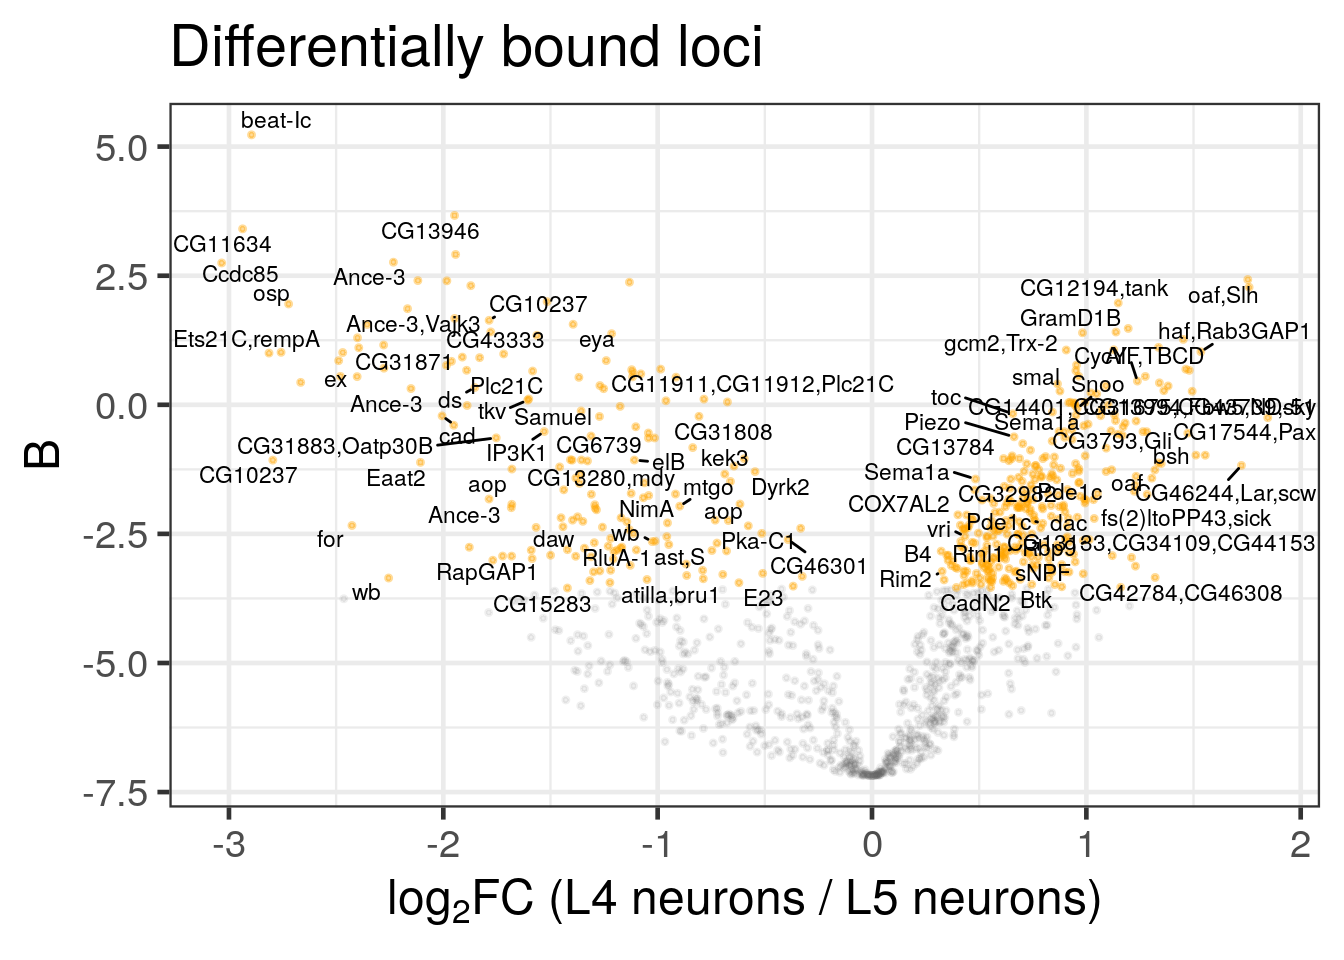
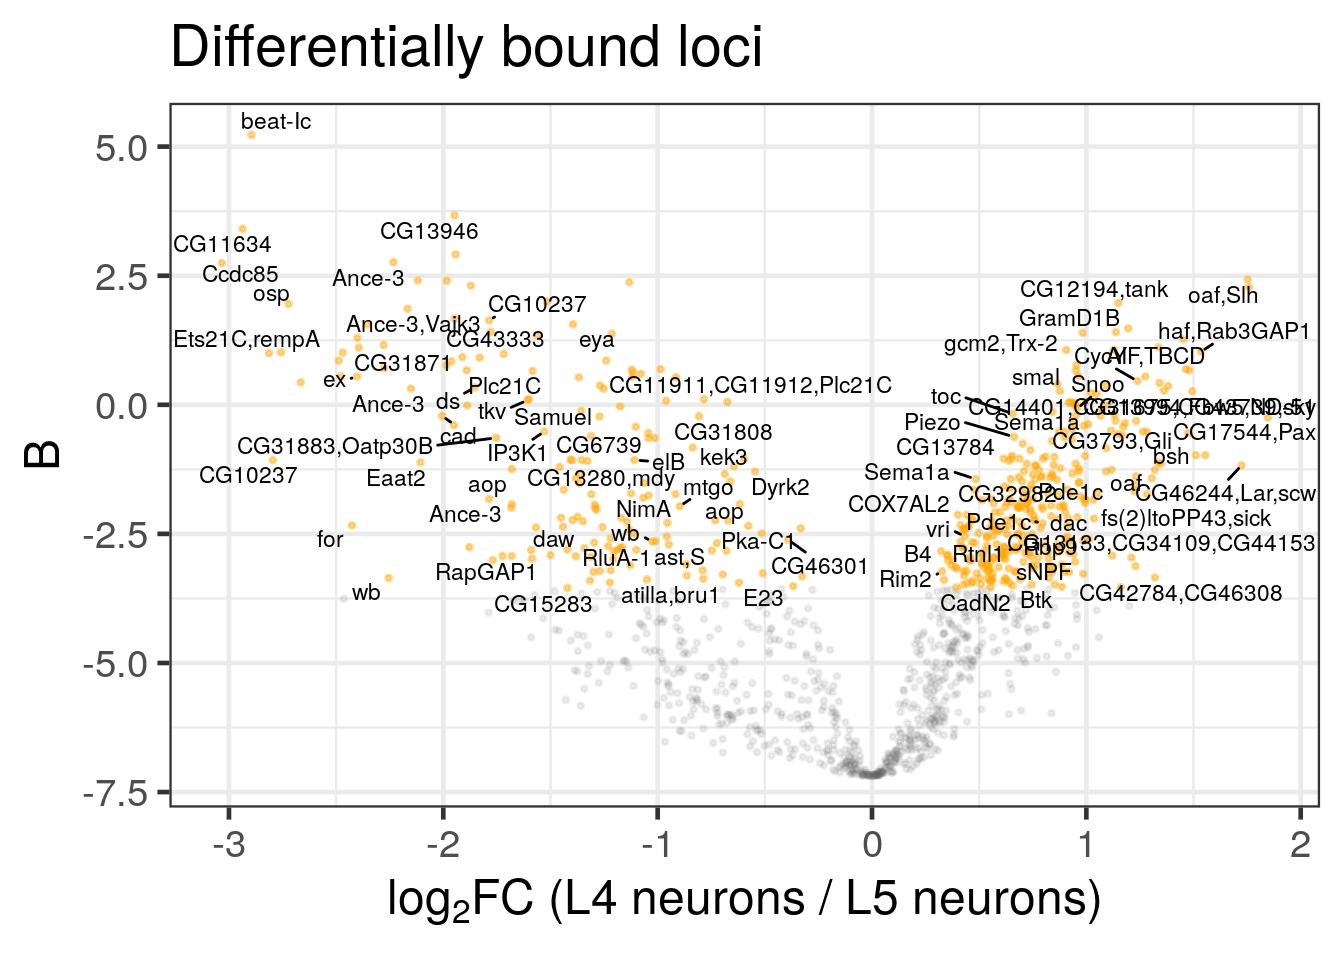
Built site for damidBind@0.99.14:

diff --git a/reference/browse_igv_regions.html b/reference/browse_igv_regions.html
@@ -13,7 +13,7 @@ A dedicated "Save as SVG" button is provided to export the current IGV view.'></
 
     <a class="navbar-brand me-2" href="../index.html">damidBind</a>
 
-    <small class="nav-text text-muted me-auto" data-bs-toggle="tooltip" data-bs-placement="bottom" title="">0.99.12</small>
+    <small class="nav-text text-muted me-auto" data-bs-toggle="tooltip" data-bs-placement="bottom" title="">0.99.14</small>
 
 
     <button class="navbar-toggler" type="button" data-bs-toggle="collapse" data-bs-target="#navbar" aria-controls="navbar" aria-expanded="false" aria-label="Toggle navigation">
@@ -56,6 +56,8 @@ A dedicated "Save as SVG" button is provided to export the current IGV view.</p>
 <span>  <span class="va">diff_results</span>,</span>
 <span>  samples <span class="op">=</span> <span class="cn">NULL</span>,</span>
 <span>  use_unique_ids <span class="op">=</span> <span class="cn">TRUE</span>,</span>
+<span>  average_tracks <span class="op">=</span> <span class="cn">FALSE</span>,</span>
+<span>  export_data_archive <span class="op">=</span> <span class="cn">NULL</span>,</span>
 <span>  colour_cond1 <span class="op">=</span> <span class="st">"#ff6600"</span>,</span>
 <span>  colour_cond2 <span class="op">=</span> <span class="st">"#2288dd"</span>,</span>
 <span>  use_genome <span class="op">=</span> <span class="cn">NULL</span>,</span>
@@ -84,6 +86,17 @@ A dedicated "Save as SVG" button is provided to export the current IGV view.</p>
 <dt id="arg-use-unique-ids">use_unique_ids<a class="anchor" aria-label="anchor" href="#arg-use-unique-ids"></a></dt>
 <dd><p>Logical.  When `TRUE` (default), simplified unique sample names will be
 displayed.  Set as `FALSE` to use the full sample file names from loading.</p></dd>
+
+
+<dt id="arg-average-tracks">average_tracks<a class="anchor" aria-label="anchor" href="#arg-average-tracks"></a></dt>
+<dd><p>Logical. If `TRUE`, displays the average signal for each
+condition instead of individual replicate tracks. (Default: `FALSE`)</p></dd>
+
+
+<dt id="arg-export-data-archive">export_data_archive<a class="anchor" aria-label="anchor" href="#arg-export-data-archive"></a></dt>
+<dd><p>Character or NULL. If a filename is provided (e.g. "my_data"),
+the function exports all IGV tracks as a zip archive ("my_data.zip") and exits
+without launching the browser. (Default: NULL)</p></dd>
 
 
 <dt id="arg-colour-cond-colour-cond-">colour_cond1, colour_cond2<a class="anchor" aria-label="anchor" href="#arg-colour-cond-colour-cond-"></a></dt>
@@ -120,7 +133,13 @@ displayed.  Set as `FALSE` to use the full sample file names from loading.</p></
 </dl></div>
     <div class="section level2">
     <h2 id="value">Value<a class="anchor" aria-label="anchor" href="#value"></a></h2>
-    <p>Invisibly returns the Shiny app object created by `shinyApp()`.</p>
+    <p>Invisibly returns the Shiny app object if launching the browser, or the path
+  to the zip archive if exporting data.</p>
+    </div>
+    <div class="section level2">
+    <h2 id="details">Details<a class="anchor" aria-label="anchor" href="#details"></a></h2>
+    <p>Alternatively, if `export_data_archive` is provided, the function will bypass the browser and
+save all tracks (including averaged tracks) as a zip archive of bedGraph and BED files.</p>
     </div>
 
     <div class="section level2">
@@ -157,6 +176,9 @@ displayed.  Set as `FALSE` to use the full sample file names from loading.</p></
 <span class="r-in"><span></span></span>
 <span class="r-in"><span><span class="co"># Launch the interactive browser</span></span></span>
 <span class="r-in"><span><span class="fu">browse_igv_regions</span><span class="op">(</span><span class="va">diff_results</span><span class="op">)</span></span></span>
+<span class="r-in"><span></span></span>
+<span class="r-in"><span><span class="co"># Export data instead of launching browser</span></span></span>
+<span class="r-in"><span><span class="fu">browse_igv_regions</span><span class="op">(</span><span class="va">diff_results</span>, export_data_archive <span class="op">=</span> <span class="st">"L4_vs_L5_tracks"</span><span class="op">)</span></span></span>
 <span class="r-in"><span><span class="op">}</span></span></span>
 <span class="r-in"><span><span class="op">}</span> <span class="co"># }</span></span></span>
 <span class="r-in"><span></span></span>

diff --git a/articles/damidBind_vignette.html b/articles/damidBind_vignette.html
@@ -22,7 +22,7 @@
 
     <a class="navbar-brand me-2" href="../index.html">damidBind</a>
 
-    <small class="nav-text text-muted me-auto" data-bs-toggle="tooltip" data-bs-placement="bottom" title="">0.99.12</small>
+    <small class="nav-text text-muted me-auto" data-bs-toggle="tooltip" data-bs-placement="bottom" title="">0.99.14</small>
 
 
     <button class="navbar-toggler" type="button" data-bs-toggle="collapse" data-bs-target="#navbar" aria-controls="navbar" aria-expanded="false" aria-label="Toggle navigation">
@@ -573,6 +573,9 @@ Figure 6.7: The interactive IGV browser window. The interface allows for rapid e
 </p>
 </div>
 <p>The table on the left side of the window can be sorted by clicking on the column headers, and clicking on any entry will move the IGV browser window to that locus (+/- a sensible buffer region). All sample reps are shown, together with the unified binding peaks and a simple pair of tracks that show the loci that are enriched in both conditions.</p>
+<p>The default display will show the individual replicate tracks. In order to show the averaged binding per condition instead, set <code>average_tracks = TRUE</code>.</p>
+<p>While this web app will save high quality SVGs, if you wish to generate your own genome browser figures with another utility, calling <code><a href="../reference/browse_igv_regions.html">browse_igv_regions()</a></code> with <code>export_data_archive = "a/valid/filepath.zip"</code> will export all of the final processed data tracks (including unified peaks and enrichment tracks) as a zip file. These can be loaded into any third party software, such as <code>pyGenomeTracks</code>.</p>
+<p>The <code>export_data_archive</code> parameter can be combined with <code>average_tracks = TRUE</code> to export averaged genome-wide binding tracks.</p>
 </div>
 <div class="section level4" number="6.4.4">
 <h4 id="gene-ontology-go-enrichment-plots">
@@ -680,7 +683,7 @@ Xu C, Ramos TB, Marshall OJ &amp; Doe CQ (2024) <a href="https://doi.org/10.7554
 <span><span class="co">##  [1] ensembldb_2.30.0        AnnotationFilter_1.30.0 GenomicFeatures_1.58.0 </span></span>
 <span><span class="co">##  [4] AnnotationDbi_1.68.0    Biobase_2.66.0          GenomicRanges_1.58.0   </span></span>
 <span><span class="co">##  [7] GenomeInfoDb_1.42.3     IRanges_2.40.1          S4Vectors_0.44.0       </span></span>
-<span><span class="co">## [10] BiocGenerics_0.52.0     damidBind_0.99.12       BiocStyle_2.34.0       </span></span>
+<span><span class="co">## [10] BiocGenerics_0.52.0     damidBind_0.99.14       BiocStyle_2.34.0       </span></span>
 <span><span class="co">## </span></span>
 <span><span class="co">## loaded via a namespace (and not attached):</span></span>
 <span><span class="co">##   [1] splines_4.4.0               later_1.4.4                </span></span>

diff --git a/news/index.html b/news/index.html
@@ -7,7 +7,7 @@
 
     <a class="navbar-brand me-2" href="../index.html">damidBind</a>
 
-    <small class="nav-text text-muted me-auto" data-bs-toggle="tooltip" data-bs-placement="bottom" title="">0.99.12</small>
+    <small class="nav-text text-muted me-auto" data-bs-toggle="tooltip" data-bs-placement="bottom" title="">0.99.14</small>
 
 
     <button class="navbar-toggler" type="button" data-bs-toggle="collapse" data-bs-target="#navbar" aria-controls="navbar" aria-expanded="false" aria-label="Toggle navigation">
@@ -36,6 +36,11 @@
       <small>Source: <a href="https://github.com/marshall-lab/damidBind/blob/HEAD/NEWS.md" class="external-link"><code>NEWS.md</code></a></small>
     </div>
 
+    <div class="section level2">
+<h2 class="pkg-version" data-toc-text="0.99.14" id="damidbind-09914">damidBind 0.99.14<a class="anchor" aria-label="anchor" href="#damidbind-09914"></a></h2>
+<ul><li>NEW: Added <code>average_tracks</code> option to <code><a href="../reference/browse_igv_regions.html">browse_igv_regions()</a></code>. When <code>TRUE</code>, this feature displays averaged binding tracks per condition rather than replicates.</li>
+<li>NEW: Added <code>export_data_archive</code> option to <code><a href="../reference/browse_igv_regions.html">browse_igv_regions()</a></code>. When set to a valid file path, this parameter will export the tracks that would be displayed in the Shiny IGV window as bedGraph or BED files in a zip archive, instead of launching the Shiny app. These files can be used to render final publication figures via external utilities such as <code>pyGenomeTracks</code> if desired. This option can of course be combined with <code>average_tracks</code> above.</li>
+</ul></div>
     <div class="section level2">
 <h2 class="pkg-version" data-toc-text="0.99.12" id="damidbind-09912">damidBind 0.99.12<a class="anchor" aria-label="anchor" href="#damidbind-09912"></a></h2>
 <ul><li>CHANGED: major rewrite of the occupancy FDR logic for gene expression status. Briefly:

diff --git a/authors.html b/authors.html
@@ -7,7 +7,7 @@
 
     <a class="navbar-brand me-2" href="index.html">damidBind</a>
 
-    <small class="nav-text text-muted me-auto" data-bs-toggle="tooltip" data-bs-placement="bottom" title="">0.99.12</small>
+    <small class="nav-text text-muted me-auto" data-bs-toggle="tooltip" data-bs-placement="bottom" title="">0.99.14</small>
 
 
     <button class="navbar-toggler" type="button" data-bs-toggle="collapse" data-bs-target="#navbar" aria-controls="navbar" aria-expanded="false" aria-label="Toggle navigation">
@@ -50,13 +50,13 @@
 
       <p>Marshall O (2026).
 <em>damidBind: Differential Binding and Expression Analysis for DamID-seq Data</em>.
-R package version 0.99.12, <a href="https://marshall-lab.org/damidBind" class="external-link">https://marshall-lab.org/damidBind</a>.
+R package version 0.99.14, <a href="https://marshall-lab.org/damidBind" class="external-link">https://marshall-lab.org/damidBind</a>.
 </p>
       <pre>@Manual{,
   title = {damidBind: Differential Binding and Expression Analysis for DamID-seq Data},
   author = {Owen Marshall},
   year = {2026},
-  note = {R package version 0.99.12},
+  note = {R package version 0.99.14},
   url = {https://marshall-lab.org/damidBind},
 }</pre>
     </div>

diff --git a/404.html b/404.html
@@ -22,7 +22,7 @@
 
     <a class="navbar-brand me-2" href="https://marshall-lab/damidBind/index.html">damidBind</a>
 
-    <small class="nav-text text-muted me-auto" data-bs-toggle="tooltip" data-bs-placement="bottom" title="">0.99.12</small>
+    <small class="nav-text text-muted me-auto" data-bs-toggle="tooltip" data-bs-placement="bottom" title="">0.99.14</small>
 
 
     <button class="navbar-toggler" type="button" data-bs-toggle="collapse" data-bs-target="#navbar" aria-controls="navbar" aria-expanded="false" aria-label="Toggle navigation">

diff --git a/LICENSE-text.html b/LICENSE-text.html
@@ -7,7 +7,7 @@
 
     <a class="navbar-brand me-2" href="index.html">damidBind</a>
 
-    <small class="nav-text text-muted me-auto" data-bs-toggle="tooltip" data-bs-placement="bottom" title="">0.99.12</small>
+    <small class="nav-text text-muted me-auto" data-bs-toggle="tooltip" data-bs-placement="bottom" title="">0.99.14</small>
 
 
     <button class="navbar-toggler" type="button" data-bs-toggle="collapse" data-bs-target="#navbar" aria-controls="navbar" aria-expanded="false" aria-label="Toggle navigation">

diff --git a/articles/index.html b/articles/index.html
@@ -7,7 +7,7 @@
 
     <a class="navbar-brand me-2" href="../index.html">damidBind</a>
 
-    <small class="nav-text text-muted me-auto" data-bs-toggle="tooltip" data-bs-placement="bottom" title="">0.99.12</small>
+    <small class="nav-text text-muted me-auto" data-bs-toggle="tooltip" data-bs-placement="bottom" title="">0.99.14</small>
 
 
     <button class="navbar-toggler" type="button" data-bs-toggle="collapse" data-bs-target="#navbar" aria-controls="navbar" aria-expanded="false" aria-label="Toggle navigation">

diff --git a/index.html b/index.html
@@ -24,7 +24,7 @@
 
     <a class="navbar-brand me-2" href="index.html">damidBind</a>
 
-    <small class="nav-text text-muted me-auto" data-bs-toggle="tooltip" data-bs-placement="bottom" title="">0.99.12</small>
+    <small class="nav-text text-muted me-auto" data-bs-toggle="tooltip" data-bs-placement="bottom" title="">0.99.14</small>
 
 
     <button class="navbar-toggler" type="button" data-bs-toggle="collapse" data-bs-target="#navbar" aria-controls="navbar" aria-expanded="false" aria-label="Toggle navigation">

diff --git a/reference/DamIDResults-class.html b/reference/DamIDResults-class.html
@@ -13,7 +13,7 @@ and associated metadata."></head><body>
 
     <a class="navbar-brand me-2" href="../index.html">damidBind</a>
 
-    <small class="nav-text text-muted me-auto" data-bs-toggle="tooltip" data-bs-placement="bottom" title="">0.99.12</small>
+    <small class="nav-text text-muted me-auto" data-bs-toggle="tooltip" data-bs-placement="bottom" title="">0.99.14</small>
 
 
     <button class="navbar-toggler" type="button" data-bs-toggle="collapse" data-bs-target="#navbar" aria-controls="navbar" aria-expanded="false" aria-label="Toggle navigation">

diff --git a/reference/analyse_go_enrichment.html b/reference/analyse_go_enrichment.html
@@ -15,7 +15,7 @@ and the background universe from the input `DamIDResults` object."></head><body>
 
     <a class="navbar-brand me-2" href="../index.html">damidBind</a>
 
-    <small class="nav-text text-muted me-auto" data-bs-toggle="tooltip" data-bs-placement="bottom" title="">0.99.12</small>
+    <small class="nav-text text-muted me-auto" data-bs-toggle="tooltip" data-bs-placement="bottom" title="">0.99.14</small>
 
 
     <button class="navbar-toggler" type="button" data-bs-toggle="collapse" data-bs-target="#navbar" aria-controls="navbar" aria-expanded="false" aria-label="Toggle navigation">

diff --git a/reference/analysisTable.html b/reference/analysisTable.html
@@ -9,7 +9,7 @@
 
     <a class="navbar-brand me-2" href="../index.html">damidBind</a>
 
-    <small class="nav-text text-muted me-auto" data-bs-toggle="tooltip" data-bs-placement="bottom" title="">0.99.12</small>
+    <small class="nav-text text-muted me-auto" data-bs-toggle="tooltip" data-bs-placement="bottom" title="">0.99.14</small>
 
 
     <button class="navbar-toggler" type="button" data-bs-toggle="collapse" data-bs-target="#navbar" aria-controls="navbar" aria-expanded="false" aria-label="Toggle navigation">

diff --git a/reference/calculate_and_add_occupancy_pvals.html b/reference/calculate_and_add_occupancy_pvals.html
@@ -19,7 +19,7 @@ These p-values are then aggregated and"></head><body>
 
     <a class="navbar-brand me-2" href="../index.html">damidBind</a>
 
-    <small class="nav-text text-muted me-auto" data-bs-toggle="tooltip" data-bs-placement="bottom" title="">0.99.12</small>
+    <small class="nav-text text-muted me-auto" data-bs-toggle="tooltip" data-bs-placement="bottom" title="">0.99.14</small>
 
 
     <button class="navbar-toggler" type="button" data-bs-toggle="collapse" data-bs-target="#navbar" aria-controls="navbar" aria-expanded="false" aria-label="Toggle navigation">